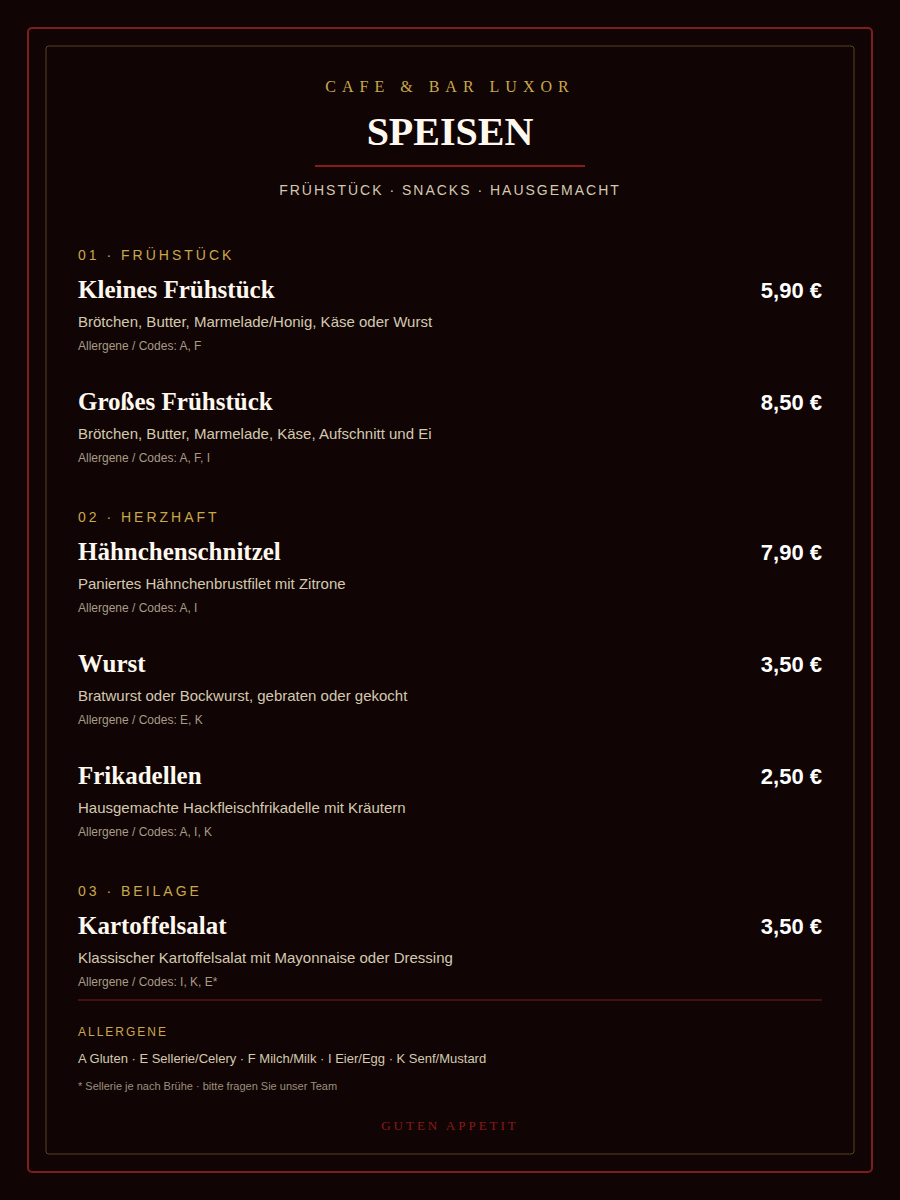
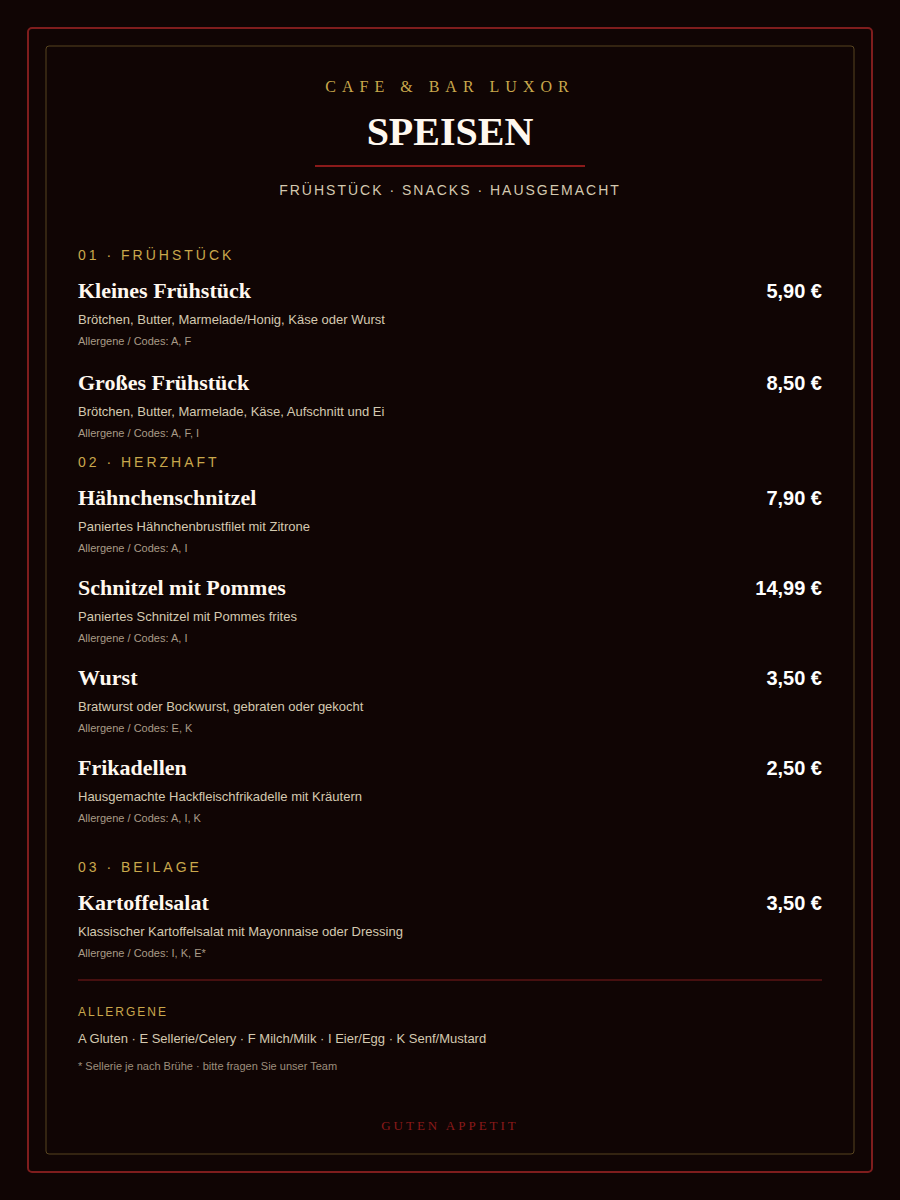
Checkpoint: Added and verified the dedicated /events page for Cafe&Bar Luxor. The page includes the supplied Winter Party poster from managed File Storage, German default copy, English switchable copy, and accurate 05.12.2026 date, 18:00 start time, indoor venue, DJ Adrice, Querbeats, and Ohligser M

diff --git a/client/src/pages/Events.tsx b/client/src/pages/Events.tsx
@@ -1,0 +1,105 @@
+/**
+ * Events Page — Cafe&Bar Luxor
+ * A dedicated bilingual event listing designed to grow with future Luxor events.
+ */
+import { CalendarDays, Clock3, DoorOpen, MapPin, Music2 } from 'lucide-react';
+import { motion, useReducedMotion } from 'framer-motion';
+import { useLanguage } from '@/contexts/LanguageContext';
+
+const EVENT_POSTER = '/manus-storage/event-winterparty-2026_1e22c79a.png';
+
+export default function Events() {
+  const { t } = useLanguage();
+  const reduceMotion = useReducedMotion();
+
+  const details = [
+    { icon: CalendarDays, label: t('events.date.label'), value: t('events.date.value') },
+    { icon: Clock3, label: t('events.time.label'), value: t('events.time.value') },
+    { icon: DoorOpen, label: t('events.venue.label'), value: t('events.venue.value') },
+    { icon: Music2, label: t('events.music.label'), value: t('events.music.value') },
+  ];
+
+  return (
+    <div className="page-enter min-h-screen bg-[#0a0603] pt-16 md:pt-20">
+      <section className="relative overflow-hidden border-b border-red-900/20 py-16 md:py-24">
+        <div className="absolute inset-0 bg-[radial-gradient(circle_at_18%_20%,rgba(140,0,0,0.22),transparent_38%),radial-gradient(circle_at_85%_70%,rgba(201,168,76,0.09),transparent_32%)]" />
+        <div className="relative mx-auto max-w-7xl px-4 sm:px-6 lg:px-8">
+          <div className="mb-3 flex items-center gap-3">
+            <div className="h-px w-10 bg-red-700" />
+            <span className="text-xs font-medium uppercase tracking-[0.3em] text-red-500" style={{ fontFamily: "'Source Sans 3', sans-serif" }}>
+              {t('events.eyebrow')}
+            </span>
+          </div>
+          <h1 className="max-w-3xl text-5xl font-bold leading-none text-white md:text-7xl" style={{ fontFamily: "'Cormorant Garamond', Georgia, serif" }}>
+            {t('events.title')}
+          </h1>
+          <p className="mt-5 max-w-2xl text-base leading-relaxed text-white/55 md:text-lg" style={{ fontFamily: "'Source Sans 3', sans-serif" }}>
+            {t('events.subtitle')}
+          </p>
+        </div>
+      </section>
+
+      <section className="py-12 md:py-20">
+        <div className="mx-auto grid max-w-7xl items-start gap-10 px-4 sm:px-6 md:grid-cols-[minmax(0,0.85fr)_minmax(0,1.15fr)] lg:gap-16 lg:px-8">
+          <motion.div
+            initial={reduceMotion ? false : { opacity: 0, y: 18 }}
+            whileInView={{ opacity: 1, y: 0 }}
+            viewport={{ once: true, amount: 0.2 }}
+            transition={{ duration: 0.45 }}
+            className="mx-auto w-full max-w-md"
+          >
+            <div className="relative overflow-hidden border border-red-800/30 bg-black/30 p-2 shadow-[0_24px_80px_rgba(0,0,0,0.5)]">
+              <div className="pointer-events-none absolute left-0 top-0 h-12 w-12 border-l-2 border-t-2 border-red-700/70" />
+              <div className="pointer-events-none absolute bottom-0 right-0 h-12 w-12 border-b-2 border-r-2 border-red-700/70" />
+              <img
+                src={EVENT_POSTER}
+                alt={t('events.poster.alt')}
+                className="h-auto w-full"
+                width={1024}
+                height={1535}
+              />
+            </div>
+          </motion.div>
+
+          <motion.article
+            initial={reduceMotion ? false : { opacity: 0, y: 18 }}
+            whileInView={{ opacity: 1, y: 0 }}
+            viewport={{ once: true, amount: 0.2 }}
+            transition={{ duration: 0.45, delay: 0.08 }}
+            className="border border-red-900/30 bg-[#110906]/80 p-6 md:p-10"
+          >
+            <div className="mb-7 flex items-center gap-3">
+              <span className="rounded-full border border-red-700/50 bg-red-950/40 px-3 py-1 text-[11px] font-semibold uppercase tracking-[0.18em] text-red-300" style={{ fontFamily: "'Source Sans 3', sans-serif" }}>
+                {t('events.card.label')}
+              </span>
+              <span className="h-px flex-1 bg-gradient-to-r from-red-700/50 to-transparent" />
+            </div>
+            <h2 className="text-4xl font-bold leading-tight text-white md:text-5xl" style={{ fontFamily: "'Cormorant Garamond', Georgia, serif" }}>
+              {t('events.card.title')}
+            </h2>
+            <p className="mt-5 text-base leading-8 text-white/65" style={{ fontFamily: "'Source Sans 3', sans-serif" }}>
+              {t('events.card.description')}
+            </p>
+
+            <div className="mt-8 grid gap-4 border-t border-white/10 pt-7 sm:grid-cols-2">
+              {details.map(({ icon: Icon, label, value }) => (
+                <div key={label} className="flex items-start gap-3">
+                  <Icon size={18} className="mt-0.5 shrink-0 text-red-500" aria-hidden="true" />
+                  <div style={{ fontFamily: "'Source Sans 3', sans-serif" }}>
+                    <p className="text-[11px] uppercase tracking-[0.16em] text-white/35">{label}</p>
+                    <p className="mt-1 text-sm leading-relaxed text-white/80">{value}</p>
+                  </div>
+                </div>
+              ))}
+            </div>
+
+            <div className="mt-8 flex items-start gap-3 border-t border-white/10 pt-6 text-sm text-white/65" style={{ fontFamily: "'Source Sans 3', sans-serif" }}>
+              <MapPin size={18} className="mt-0.5 shrink-0 text-red-500" aria-hidden="true" />
+              <span>{t('events.location')}</span>
+            </div>
+          </motion.article>
+        </div>
+      </section>
+    </div>
+  );
+}

diff --git a/client/src/contexts/LanguageContext.tsx b/client/src/contexts/LanguageContext.tsx
@@ -21,6 +21,7 @@ const translations: Record<Language, Record<string, string>> = {
     'nav.about': 'Über uns',
     'nav.menu': 'Speisekarte',
     'nav.gallery': 'Galerie',
+    'nav.events': 'Veranstaltungen',
     'nav.hours': 'Öffnungszeiten',
     'nav.contact': 'Kontakt',
     'nav.automaten': 'Automaten',
@@ -106,6 +107,24 @@ const translations: Record<Language, Record<string, string>> = {
     'gallery.img5': 'Terrassenpanorama',
     'gallery.img6': 'Tische auf der Terrasse',
     'gallery.open': 'Foto vergrößern',
+
+    // Events
+    'events.eyebrow': 'Kommende Veranstaltungen',
+    'events.title': 'Veranstaltungen',
+    'events.subtitle': 'Besondere Abende, gute Musik und unvergessliche Momente im Cafe&Bar Luxor.',
+    'events.card.label': '05.12.2026 · Winterparty',
+    'events.card.title': 'Winterparty im Luxor',
+    'events.card.description': 'Feiern Sie mit uns in den Winter! Am Samstag, den 05.12.2026, erwartet Sie ein besonderer Abend mit DJ Adrice und Querbeats. Die Veranstaltung findet indoor statt — wir freuen uns auf Ihren Besuch.',
+    'events.date.label': 'Datum',
+    'events.date.value': 'Samstag, 05.12.2026',
+    'events.time.label': 'Beginn',
+    'events.time.value': 'Ab 18:00 Uhr',
+    'events.venue.label': 'Veranstaltungsort',
+    'events.venue.value': 'Indoor im Cafe&Bar Luxor',
+    'events.music.label': 'Musik',
+    'events.music.value': 'DJ Adrice · Querbeats',
+    'events.location': 'Ohligser Markt 5, 42697 Solingen',
+    'events.poster.alt': 'Poster zur Winterparty im Cafe&Bar Luxor am Samstag, 05.12.2026 ab 18:00 Uhr mit DJ Adrice und Querbeats',
 
     // Opening Hours
     'hours.title': 'Öffnungszeiten',
@@ -214,6 +233,7 @@ const translations: Record<Language, Record<string, string>> = {
     'nav.about': 'About',
     'nav.menu': 'Menu',
     'nav.gallery': 'Gallery',
+    'nav.events': 'Events',
     'nav.hours': 'Opening Hours',
     'nav.contact': 'Contact',
     'nav.automaten': 'Machines',
@@ -299,6 +319,24 @@ const translations: Record<Language, Record<string, string>> = {
     'gallery.img5': 'Terrace panorama',
     'gallery.img6': 'Terrace tables',
     'gallery.open': 'Enlarge photo',
+
+    // Events
+    'events.eyebrow': 'Upcoming events',
+    'events.title': 'Events',
+    'events.subtitle': 'Special evenings, great music and unforgettable moments at Cafe&Bar Luxor.',
+    'events.card.label': '05.12.2026 · Winter Party',
+    'events.card.title': 'Winter Party at Luxor',
+    'events.card.description': 'Celebrate the start of winter with us! On Saturday, 05.12.2026, enjoy a special evening with DJ Adrice and Querbeats. The event takes place indoors — we look forward to welcoming you.',
+    'events.date.label': 'Date',
+    'events.date.value': 'Saturday, 05.12.2026',
+    'events.time.label': 'Starts',
+    'events.time.value': 'From 18:00',
+    'events.venue.label': 'Venue',
+    'events.venue.value': 'Indoors at Cafe&Bar Luxor',
+    'events.music.label': 'Music',
+    'events.music.value': 'DJ Adrice · Querbeats',
+    'events.location': 'Ohligser Markt 5, 42697 Solingen',
+    'events.poster.alt': 'Poster for the Cafe&Bar Luxor winter party on Saturday, 05.12.2026 from 18:00 with DJ Adrice and Querbeats',
 
     // Opening Hours
     'hours.title': 'Opening Hours',

diff --git a/client/src/pages/Events.content.test.ts b/client/src/pages/Events.content.test.ts
@@ -1,0 +1,36 @@
+import { readFileSync } from 'node:fs';
+import { resolve } from 'node:path';
+import { describe, expect, it } from 'vitest';
+
+const projectRoot = resolve(import.meta.dirname, '..', '..', '..');
+const eventsSource = readFileSync(resolve(projectRoot, 'client/src/pages/Events.tsx'), 'utf8');
+const translationsSource = readFileSync(resolve(projectRoot, 'client/src/contexts/LanguageContext.tsx'), 'utf8');
+const appSource = readFileSync(resolve(projectRoot, 'client/src/App.tsx'), 'utf8');
+const navigationSource = readFileSync(resolve(projectRoot, 'client/src/components/Navigation.tsx'), 'utf8');
+const footerSource = readFileSync(resolve(projectRoot, 'client/src/components/Footer.tsx'), 'utf8');
+
+describe('Events page', () => {
+  it('registers the public route and links it from both navigation surfaces', () => {
+    expect(appSource).toContain('import Events from "./pages/Events"');
+    expect(appSource).toContain('path="/events" component={Events}');
+    expect(navigationSource).toContain("{ href: '/events', label: t('nav.events') }");
+    expect(footerSource).toContain("{ href: '/events', label: t('nav.events') }");
+  });
+
+  it('contains the poster and accurate event facts', () => {
+    expect(eventsSource).toContain('/manus-storage/event-winterparty-2026_1e22c79a.png');
+    expect(translationsSource).toContain("'events.date.value': 'Samstag, 05.12.2026'");
+    expect(translationsSource).toContain("'events.date.value': 'Saturday, 05.12.2026'");
+    expect(translationsSource).toContain("'events.time.value': 'Ab 18:00 Uhr'");
+    expect(translationsSource).toContain("'events.time.value': 'From 18:00'");
+    expect(translationsSource).toContain('Ohligser Markt 5, 42697 Solingen');
+    expect(translationsSource).toContain('DJ Adrice');
+    expect(translationsSource).toContain('Querbeats');
+    expect(translationsSource).toContain('Indoors at Cafe&Bar Luxor');
+  });
+
+  it('keeps the supplied poster on managed storage rather than in the static bundle', () => {
+    expect(eventsSource).toContain('/manus-storage/');
+    expect(eventsSource).not.toContain('/media/event-winterparty-2026.png');
+  });
+});

diff --git a/client/src/pages/Menu.prices.test.ts b/client/src/pages/Menu.prices.test.ts
@@ -8,6 +8,9 @@ const cleanGermanGenerator = readFileSync("/tmp/rebuild_german_drinks_clean.py",
 const germanBeerGenerator = readFileSync("/tmp/fix_luxor_menu_layout.py", "utf8");
 const englishGenerator = readFileSync("/tmp/make_updated_english_prices.py", "utf8");
 const aboutSource = readFileSync(resolve(projectRoot, "client/src/pages/About.tsx"), "utf8");
+const menuSource = readFileSync(resolve(projectRoot, "client/src/pages/Menu.tsx"), "utf8");
+const germanFoodSheet = readFileSync(resolve(projectRoot, "client/public/media/p10_speisen_de_7c4e2a1b.svg"), "utf8");
+const englishFoodSheet = readFileSync(resolve(projectRoot, "client/public/media/p10_speisen_en_7c4e2a1b.svg"), "utf8");
 
 describe("bilingual beverage price update", () => {
   it("sets German cold drinks to the requested prices", () => {
@@ -40,5 +43,20 @@ describe("bilingual beverage price update", () => {
   it("sets Espresso Macchiato to 3 euros in both languages", () => {
     expect(cleanGermanGenerator).toContain("298:'3,00 €'");
     expect(englishGenerator).toContain("('Espresso Macchiato','3.00 €'");
+  });
+
+  it("includes Schnitzel mit Pommes at 14,99 euros on the German Speisen sheet", () => {
+    expect(germanFoodSheet).toContain("Schnitzel mit Pommes");
+    expect(germanFoodSheet).toContain("14,99 €");
+  });
+
+  it("includes the translated Schnitzel with Fries at 14.99 euros on the English sheet", () => {
+    expect(englishFoodSheet).toContain("Schnitzel with Fries");
+    expect(englishFoodSheet).toContain("€14.99");
+  });
+
+  it("keeps the bilingual flipbook mapped to the localized food sheets", () => {
+    expect(menuSource).toContain("'/media/p10_speisen_de_7c4e2a1b.png'");
+    expect(menuSource).toContain("'/media/p10_speisen_en_7c4e2a1b.png'");
   });
 });

diff --git a/client/src/App.tsx b/client/src/App.tsx
@@ -19,6 +19,7 @@ import Home from "./pages/Home";
 import About from "./pages/About";
 import Menu from "./pages/Menu";
 import Gallery from "./pages/Gallery";
+import Events from "./pages/Events";
 import Hours from "./pages/Hours";
 import Contact from "./pages/Contact";
 import Impressum from "./pages/Impressum";
@@ -40,6 +41,7 @@ function Router() {
           <Route path="/ueber-uns" component={About} />
           <Route path="/speisekarte" component={Menu} />
           <Route path="/galerie" component={Gallery} />
+          <Route path="/events" component={Events} />
           <Route path="/oeffnungszeiten" component={Hours} />
           <Route path="/kontakt" component={Contact} />
           <Route path="/impressum" component={Impressum} />

diff --git a/client/src/components/Footer.tsx b/client/src/components/Footer.tsx
@@ -58,6 +58,7 @@ export default function Footer() {
                 { href: '/ueber-uns', label: t('nav.about') },
                 { href: '/speisekarte', label: t('nav.menu') },
                 { href: '/galerie', label: t('nav.gallery') },
+                { href: '/events', label: t('nav.events') },
                 { href: '/oeffnungszeiten', label: t('nav.hours') },
                 { href: '/kontakt', label: t('nav.contact') },
                 { href: '/automaten', label: t('nav.automaten') },

diff --git a/client/src/App.routes.test.ts b/client/src/App.routes.test.ts
@@ -21,4 +21,11 @@ describe("public routes", () => {
     expect(navigationSource).toContain("href: '/jobs-praktikum'");
     expect(navigationSource).toContain("Jobs & Internships");
   });
+
+  it("exposes the public bilingual Events route", () => {
+    expect(appSource).toContain('path="/events"');
+    expect(appSource).toContain('import Events from "./pages/Events"');
+    expect(navigationSource).toContain("href: '/events'");
+    expect(footerSource).toContain("href: '/events'");
+  });
 });

diff --git a/client/src/components/Navigation.tsx b/client/src/components/Navigation.tsx
@@ -29,6 +29,7 @@ export default function Navigation() {
     { href: '/ueber-uns', label: t('nav.about') },
     { href: '/speisekarte', label: t('nav.menu') },
     { href: '/galerie', label: t('nav.gallery') },
+    { href: '/events', label: t('nav.events') },
     { href: '/oeffnungszeiten', label: t('nav.hours') },
     { href: '/kontakt', label: t('nav.contact') },
     { href: '/automaten', label: t('nav.automaten') },
